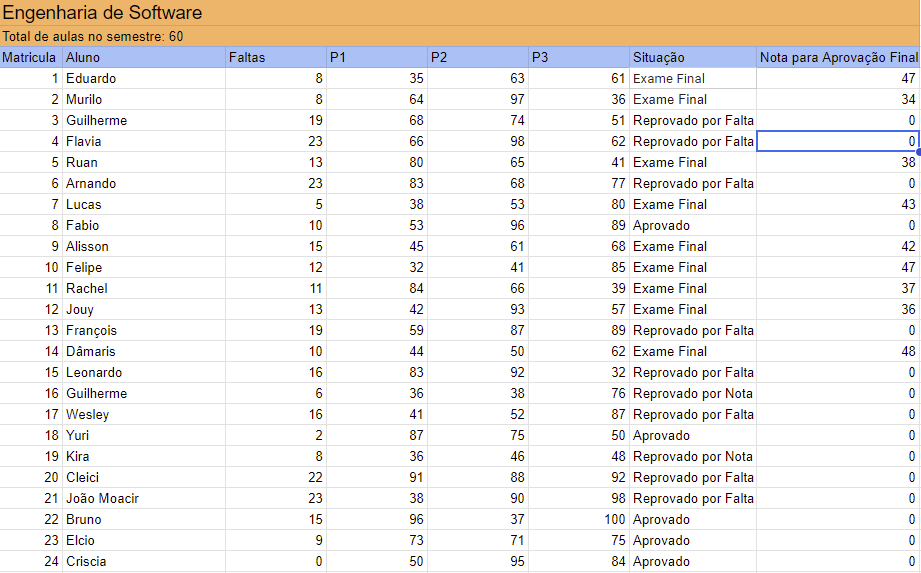
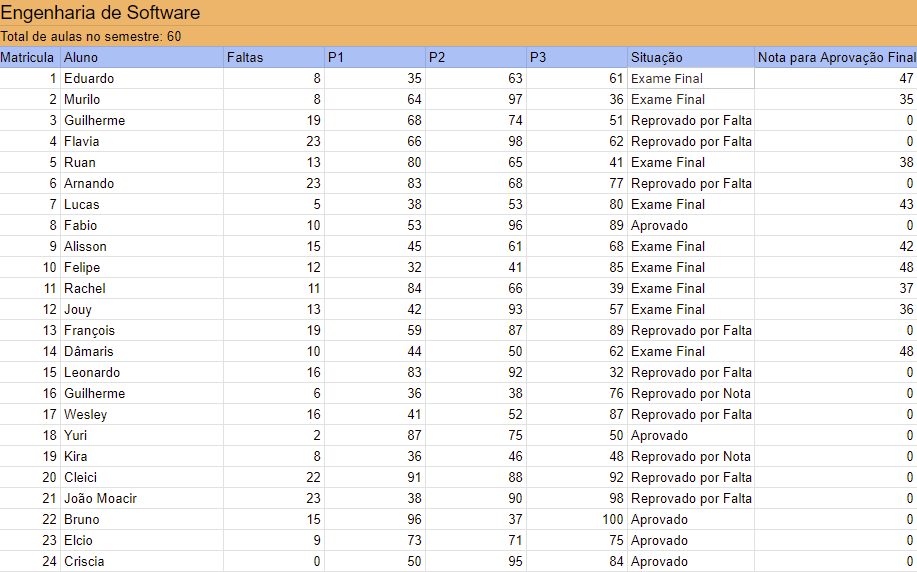
update code

diff --git a/main.py b/main.py
@@ -1,5 +1,6 @@
 import os.path
 import pandas as pd
+from math import ceil
 
 from google.auth.transport.requests import Request
 from google.oauth2.credentials import Credentials
@@ -67,7 +68,7 @@ def main():
         table['Final Approval Grade'] = 0
 
         # Calculate the final approval grade for students in the "Exame Final" situation
-        table.loc[table['Status'] == 'Exame Final', 'Final Approval Grade'] = ((100 - average.loc[table['Status'] == 'Exame Final'])).astype(int)
+        table.loc[table['Status'] == 'Exame Final', 'Final Approval Grade'] = ((100 - average.loc[table['Status'] == 'Exame Final'])).apply(ceil).astype(int)
 
         # Convert DataFrame to values compatible with Google Sheets API
         values_to_update = table[['Status', 'Final Approval Grade']].values.tolist()
